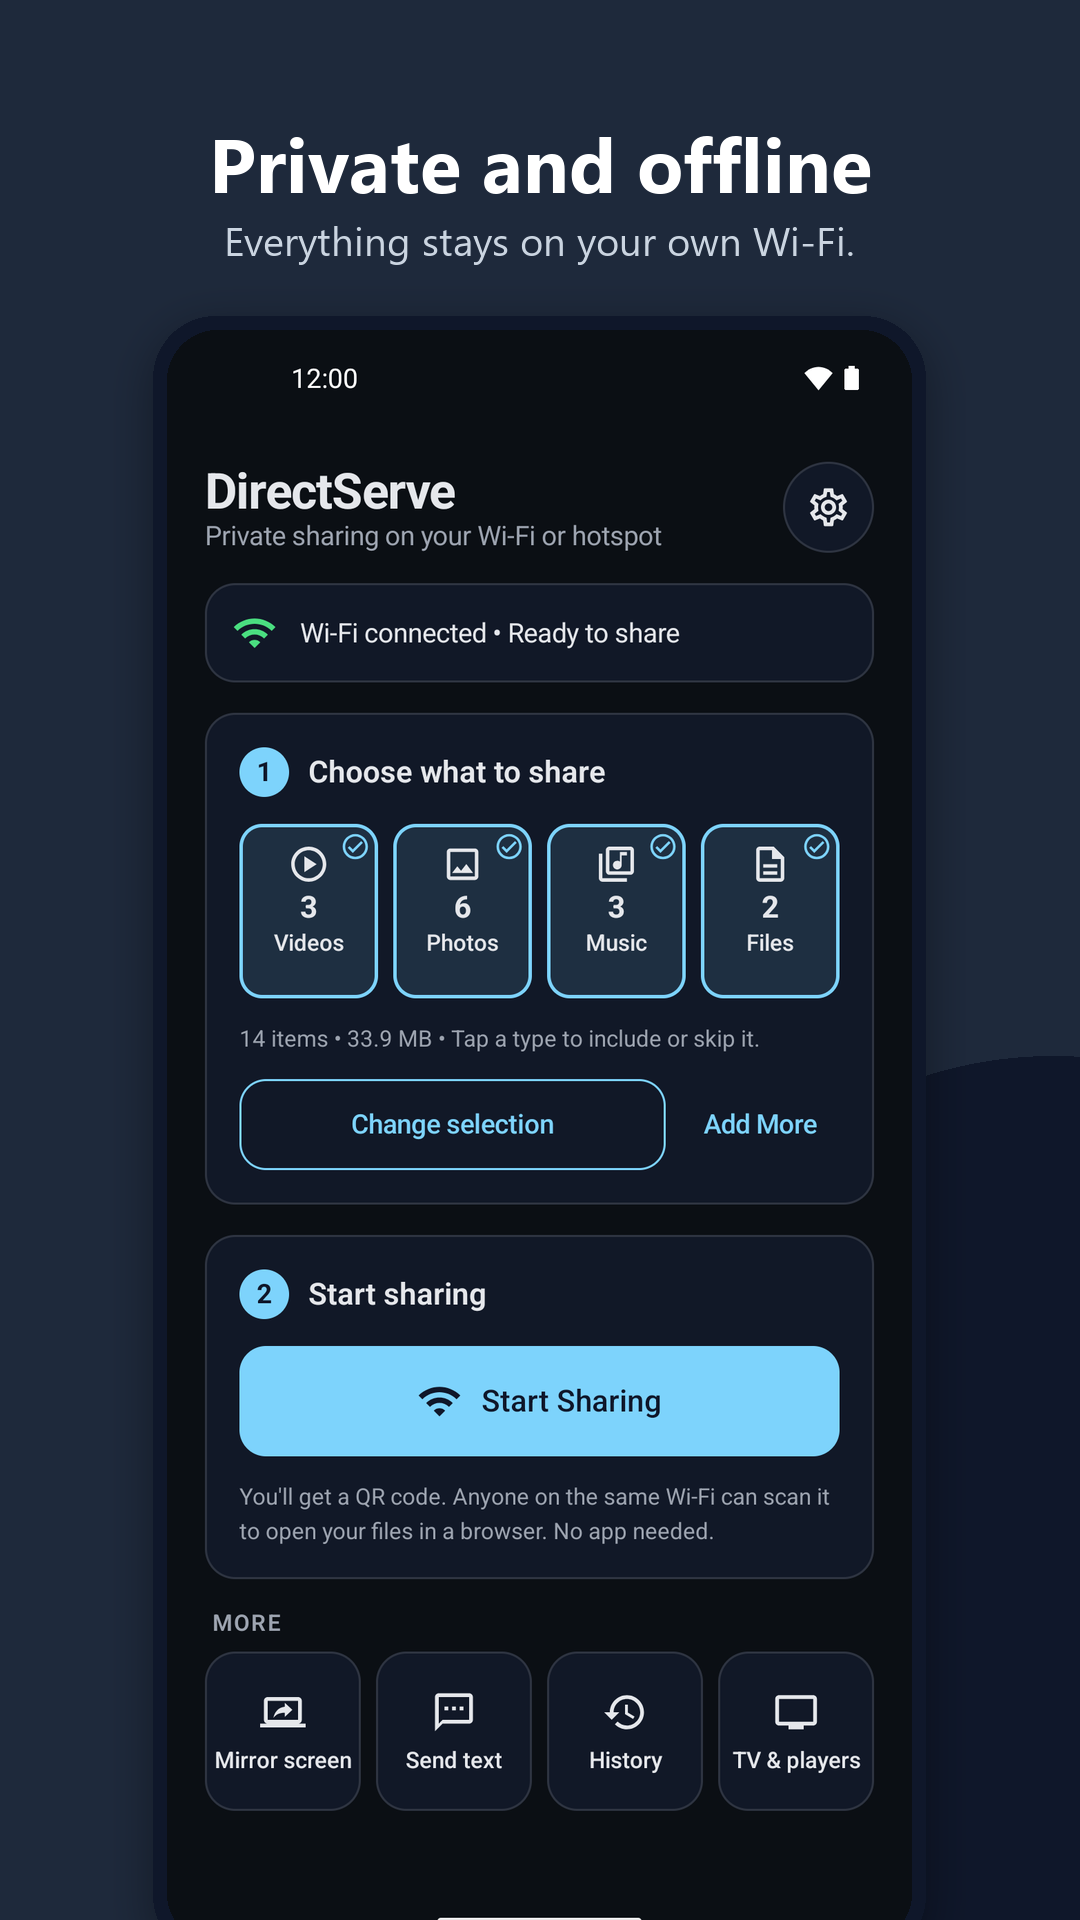
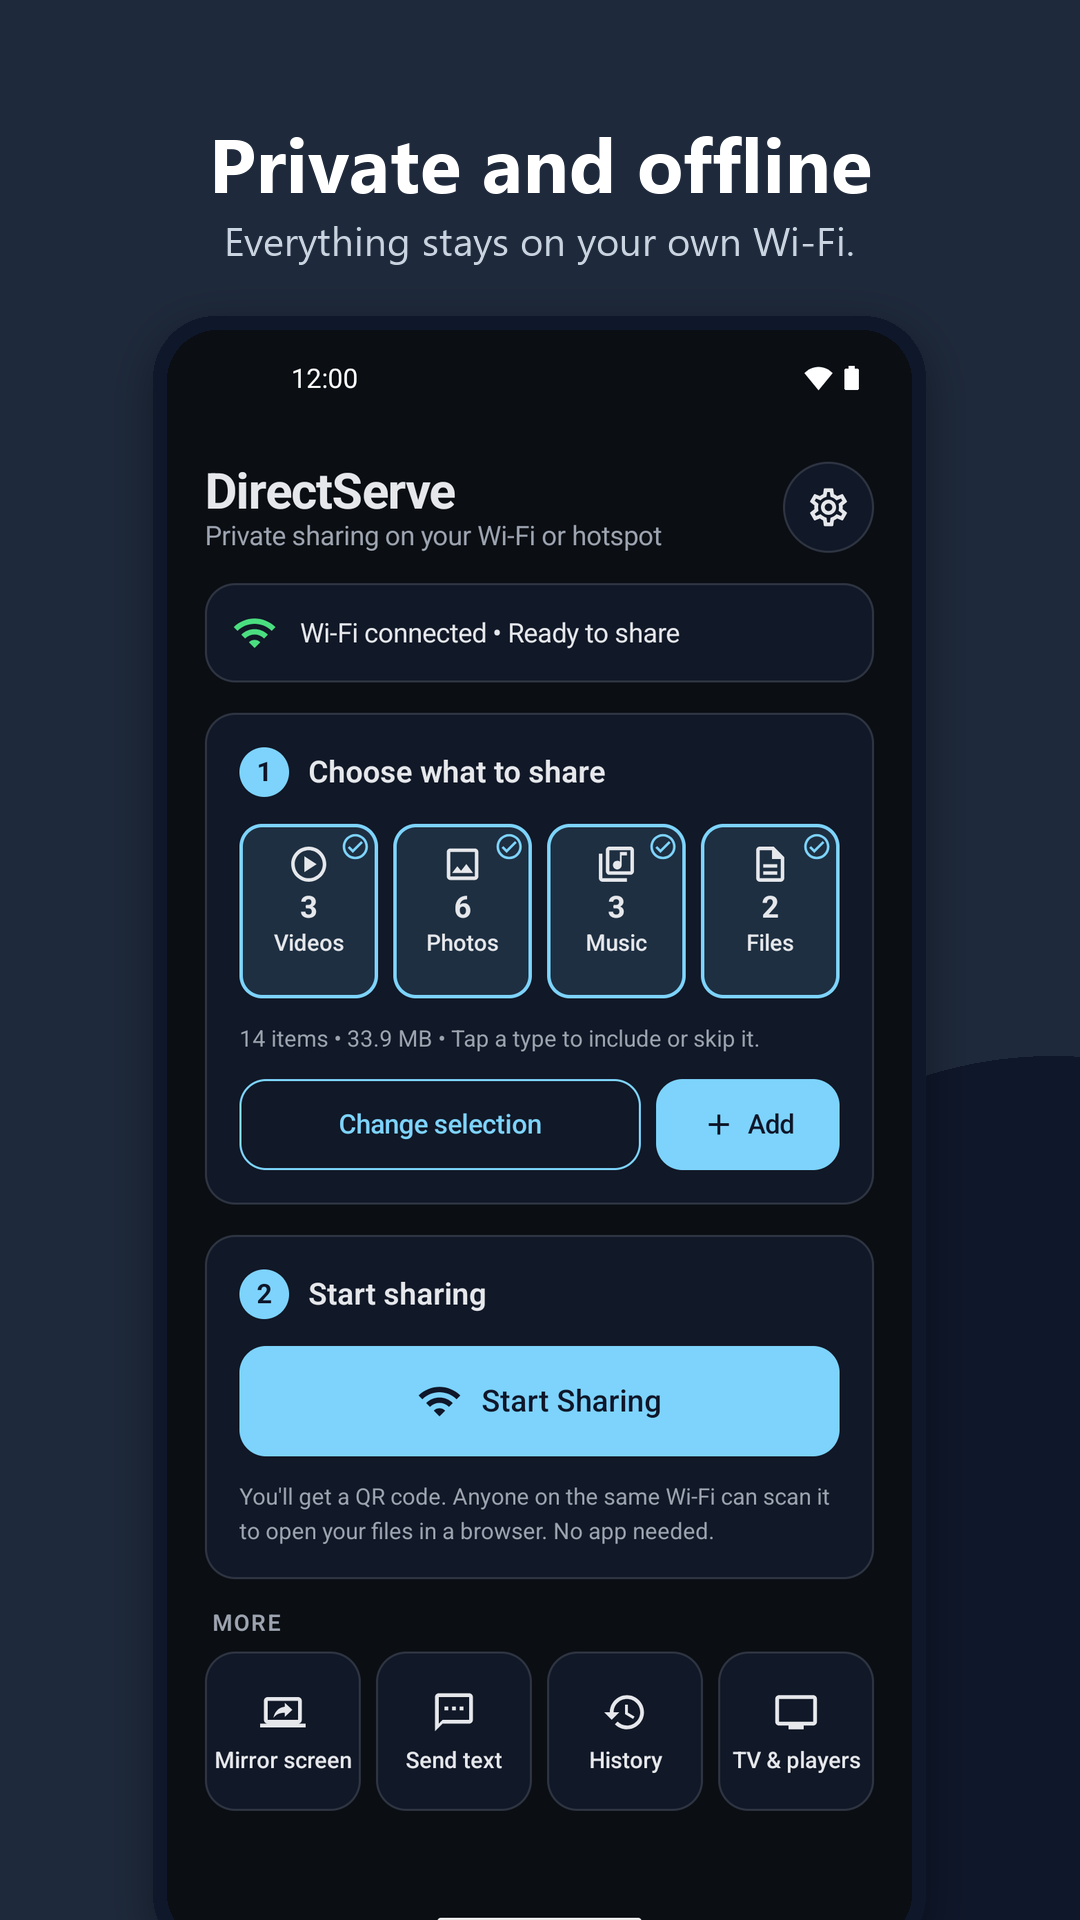
Refresh Play Store screenshots for the new home and browser
Recaptured from the 1.0.27 release build: the + Add home in light and
dark, the session screen, the streaming-style browser home on phone and
laptop, the player and the library. The mirror shot is unchanged, and
make_store.py now keeps a screenshot that was not recaptured.

Changed region(s): [[0.5806, 0.5625, 0.7944, 0.625], [0.3056, 0.5625, 0.5194, 0.5938]]

diff --git a/store/play-assets/make_store.py b/store/play-assets/make_store.py
@@ -21,7 +21,7 @@ SHOTS = [
     ("home.png", "Share in 2 taps", "Pick what to share, tap Start. That's it."),
     ("session.png", "Scan and open in any browser", "TV, laptop, tablet or phone. No app needed."),
     ("laptop.png", "Open it on any screen", "The same share on a laptop or TV browser."),
-    ("browser.png", "Watch and download in the browser", "Videos, photos, music and files."),
+    ("browser.png", "Your own streaming page", "Continue watching, swipe through rows, tap Play."),
     ("player.png", "Plays straight from your phone", "Direct play first, prepared only when needed."),
     ("mirror.png", "Mirror your screen live", "Show anything on a bigger screen.", "mirror_phone.png"),
     ("library.png", "Always know what you're sharing", "Search, filter, remove in one tap."),
@@ -182,6 +182,10 @@ def main(raw_dir: str, out_dir: str) -> None:
         if (raw / name).exists():
             n += 1
             screenshot(raw / name, headline, sub, out / f"phone_{n:02d}_{name}", *companion)
+        elif (out / f"phone_{n + 1:02d}_{name}").exists():
+            # Not recaptured this time: keep the existing screenshot in its place.
+            n += 1
+            print("keep:", name)
         else:
             print("skip (no capture):", name)
     icon(out / "icon_512.png")
